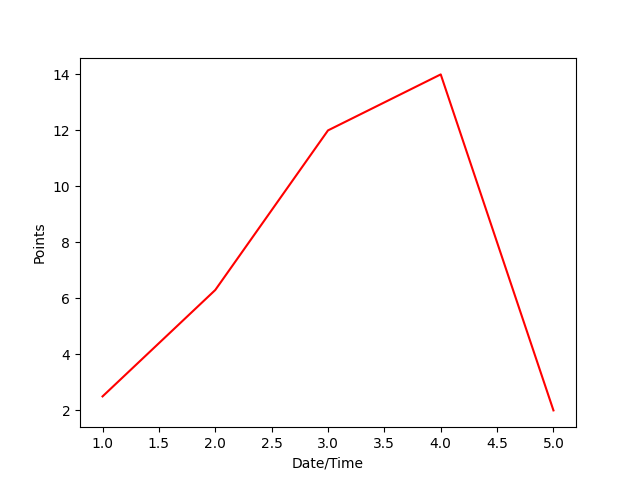
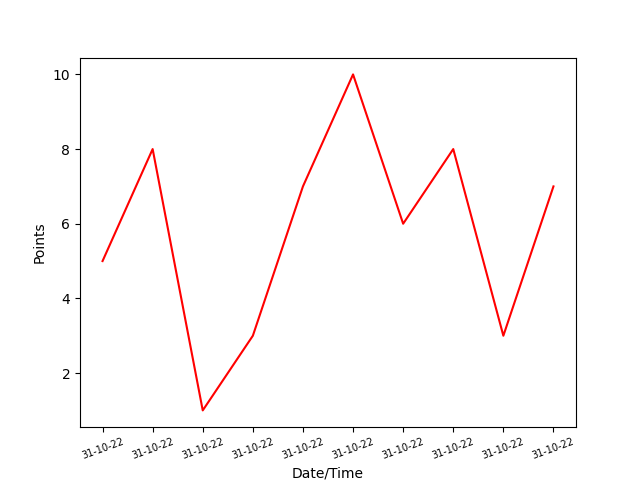
diagram wip

diff --git a/matplottest.py b/matplottest.py
@@ -1,15 +1,21 @@
 # Import Library
 
 import matplotlib.pyplot as plt
-
+from datetime import datetime
+from random import randint
 # Define Data
-
-x= [1, 2, 3, 4, 5]
-y= [2.5, 6.3, 12, 14, 2]
-
-# Plot 
-
-plt.plot(x,y,color='r')
+c = 0
+xt = []
+x = []
+y = []
+for i in range(10):
+    c+=1
+    x.append(c)
+    xt.append(datetime.now().strftime("%d-%m-%y"))
+    y.append(randint(1, 10))
+# Plot
+plt.xticks(ticks=x, labels=xt, rotation=20, size=7)
+plt.plot(x, y, color='r')
 plt.xlabel("Date/Time")
 plt.ylabel("Points")
 # Save image as png

diff --git a/dcbot.py b/dcbot.py
@@ -69,6 +69,7 @@ async def clanlist(ctx):
 @bot.slash_command(description="Generate Diagram")
 async def diagram(ctx):
     await ctx.respond(file=discord.File("save.png"))
+    await ctx.respond("_(placeholder)_")
 try:
     bot.run("MTAzNjMzMDIyNTE1NzUzNzc5Mg.GWBdhb.5uPSvhTO44gUPqx60R3m3hFiioRzPozMHnNrzs")
 except Exception as ex:
